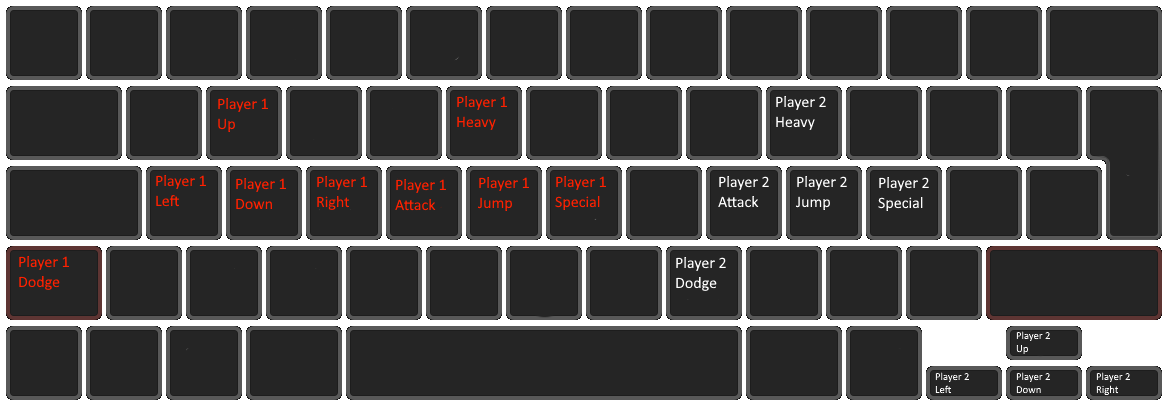
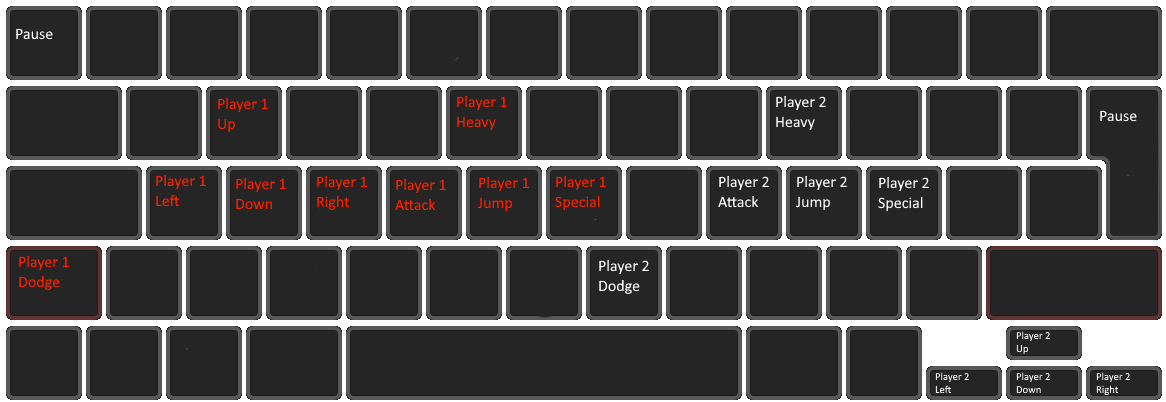
GITBOOK-56: change request with no subject merged in GitBook

Changed region(s): [[0.0, 0.0, 1.0, 1.0], [0.0, 0.0597, 0.0617, 0.0896]]

diff --git a/analysis/1.4a-features-of-the-proposed-solution.md b/analysis/1.4a-features-of-the-proposed-solution.md
@@ -22,7 +22,11 @@ The jump key is a very complicated key, as Rivals of Aether has shown us, contro
 
 I've decided for this reason to use G to jump for player 1 and L to jump for player 2. These keys are both very far away from each other and provide a similar placement of other attacking inputs. I can then use F and K for the light attack inputs respectively, H and ";" for the special attack inputs respectively and T and O for the strong attack inputs respectively. This allows both players to have a similar input style for their attack inputs but reversed for each player. This means that players can do light attack inputs and special inputs with their index or ring finger, and their middle finger can press jump or heavy (as you can't do a heavy attack in the air you don't need to press both at once). Lastly, for dodge, I've decided to use Left Shift for player 1 and N for player 2. This is because when using your left hand for "WASD", your pinkie finger is resting over Left Shift and when using your left hand for "OKL;" your pinkie rests over N while staying out of the way of player 1's "TFGH" inputs. This means you don't have to change your positioning to input dodge and the controls feel the same for both players.
 
-<figure><img src="../.gitbook/assets/controls (1).png" alt=""><figcaption><p>Finalised controls on a UK keyboard layout</p></figcaption></figure>
+#### Pause
+
+I'm going to add a pause menu that's&#x20;
+
+<figure><img src="../.gitbook/assets/controls.png" alt=""><figcaption><p>Finalised conrols on a UK English keyboard layout</p></figcaption></figure>
 
 ### Functionality of inputs
 
@@ -38,19 +42,7 @@ Jumping is the most important mechanic and one that's extremely limited. With on
 
 Light attacks are fast attacks, generally having an active hitbox in under 10 frames. They do relatively little damage but combo can into other light attacks or aerials while your opponent hasn't taken much damage. When your opponent has taken more damage, some characters can combo them into kill moves, but they likely won't kill themselves. Some of them can, but they can't combo and are weaker than strong attacks.&#x20;
 
-<div>
-
-<figure><img src="../.gitbook/assets/300px-MarioFTiltUpSSBU-2485091908.gif" alt=""><figcaption><p><a href="../reference-list.md">Mario's Forward Light in Super Smash Bros. Ultimate (SmashWiki, 2023)</a></p></figcaption></figure>
-
- 
-
-<figure><img src="../.gitbook/assets/450px-MarioDTiltSSBU-2496512702.gif" alt=""><figcaption><p><a href="../reference-list.md">Mario's Downward Light in Super Smash Bros. Ultimate (SmashWiki, 2023)</a></p></figcaption></figure>
-
- 
-
-<figure><img src="../.gitbook/assets/MarioUTiltSSBU.gif" alt=""><figcaption><p><a href="../reference-list.md">Mario's Upward Light in Super Smash Bros. Ultimate (SmashWiki, 2023)</a></p></figcaption></figure>
-
-</div>
+<table data-view="cards"><thead><tr><th></th><th></th><th></th><th data-hidden data-card-cover data-type="files"></th></tr></thead><tbody><tr><td></td><td><a href="../reference-list.md">Mario's Forward Light in Super Smash Bros. Ultimate (SmashWiki, 2023)</a></td><td></td><td><a href="../.gitbook/assets/300px-MarioFTiltUpSSBU-2485091908.gif">300px-MarioFTiltUpSSBU-2485091908.gif</a></td></tr><tr><td></td><td><a href="../reference-list.md">Mario's Downward Light in Super Smash Bros. Ultimate (SmashWiki, 2023)</a></td><td></td><td><a href="../.gitbook/assets/450px-MarioDTiltSSBU-2496512702.gif">450px-MarioDTiltSSBU-2496512702.gif</a></td></tr><tr><td></td><td><a href="../reference-list.md">Mario's Upward Light in Super Smash Bros. Ultimate (SmashWiki, 2023)</a></td><td></td><td><a href="../.gitbook/assets/MarioUTiltSSBU.gif">MarioUTiltSSBU.gif</a></td></tr></tbody></table>
 
 #### Strong attacks
 
@@ -58,19 +50,7 @@ Strong attacks are slow attacks that deal much more damage and knockback than no
 
 
 
-<div>
-
-<figure><img src="../.gitbook/assets/MarioDSmashSSBU (1).gif" alt=""><figcaption><p><a href="../reference-list.md">Mario's Downward Heavy in Super Smash Bros. Ultimate (SmashWiki, 2023)</a></p></figcaption></figure>
-
- 
-
-<figure><img src="../.gitbook/assets/500px-MarioUSmashSSBU (1).gif" alt=""><figcaption><p><a href="../reference-list.md">Mario's Upward Heavy in Super Smash Bros. Ultimate (SmashWiki, 2023)</a></p></figcaption></figure>
-
- 
-
-<figure><img src="../.gitbook/assets/MarioFSmashSSBU.gif" alt=""><figcaption><p><a href="../reference-list.md">Mario's Forward Heavy in Super Smash Bros. Ultimate (SmashWiki, 2023)</a></p></figcaption></figure>
-
-</div>
+<table data-view="cards"><thead><tr><th></th><th></th><th></th><th data-hidden data-card-cover data-type="files"></th></tr></thead><tbody><tr><td></td><td><a href="../reference-list.md">Mario's Downward Heavy in Super Smash Bros. Ultimate (SmashWiki, 2023)</a></td><td></td><td><a href="../.gitbook/assets/MarioFSmashSSBU.gif">MarioFSmashSSBU.gif</a></td></tr><tr><td></td><td><a href="../reference-list.md">Mario's Upward Heavy in Super Smash Bros. Ultimate (SmashWiki, 2023)</a></td><td></td><td><a href="../.gitbook/assets/MarioDSmashSSBU (1).gif">MarioDSmashSSBU (1).gif</a></td></tr><tr><td></td><td><a href="../reference-list.md">Mario's Forward Heavy in Super Smash Bros. Ultimate (SmashWiki, 2023)</a></td><td></td><td><a href="../.gitbook/assets/500px-MarioUSmashSSBU (1).gif">500px-MarioUSmashSSBU (1).gif</a></td></tr></tbody></table>
 
 #### Aerial attacks
 
@@ -82,9 +62,11 @@ Aerials are done with the light or heavy attack button while in the air. They ar
 
  
 
-<figure><img src="../.gitbook/assets/Back Air.gif" alt=""><figcaption><p><a href="../reference-list.md">Mario's Backward Aerial in Super Smash Bros. Ultimate, a fast move with a large hitbox and low reward (SmashWiki, 2023)</a></p></figcaption></figure>
+<figure><img src="../.gitbook/assets/Back Air.gif" alt=""><figcaption><p><a href="../reference-list.md">Mario's Backward Aerial in Super Smash Bros. Ultimate, a fast move with a large hitbox and low reward (SmashWiki, 2023)</a><a href="../reference-list.md">Mario's Backward Aerial in Super Smash Bros. Ultimate, a fast move with a large hitbox and low reward (SmashWiki, 2023)</a></p></figcaption></figure>
 
 </div>
+
+<table data-view="cards"><thead><tr><th></th><th></th><th></th><th data-hidden data-card-cover data-type="files"></th></tr></thead><tbody><tr><td><a href="../reference-list.md">Mario's Forward Aerial in Super Smash Bros. Ultimate, a slow move with a reasonable hitbox that has a high reward (SmashWiki, 2023)</a></td><td></td><td></td><td><a href="../.gitbook/assets/Forward Air.gif">Forward Air.gif</a></td></tr><tr><td><a href="../reference-list.md">Mario's Backward Aerial in Super Smash Bros. Ultimate, a fast move with a large hitbox and low reward (SmashWiki, 2023)</a></td><td></td><td></td><td><a href="../.gitbook/assets/Back Air.gif">Back Air.gif</a></td></tr><tr><td><a href="../reference-list.md">Mario's Upward Aerial in Super Smash Bros. Ultimate, a fast move with a small hitbox, low damage and the ability to combo into itself or other moves (SmashWiki, 2023)</a></td><td></td><td></td><td><a href="../.gitbook/assets/MarioUAirSSBU-739069191 (1).gif">MarioUAirSSBU-739069191 (1).gif</a></td></tr></tbody></table>
 
 #### Special attacks
 
